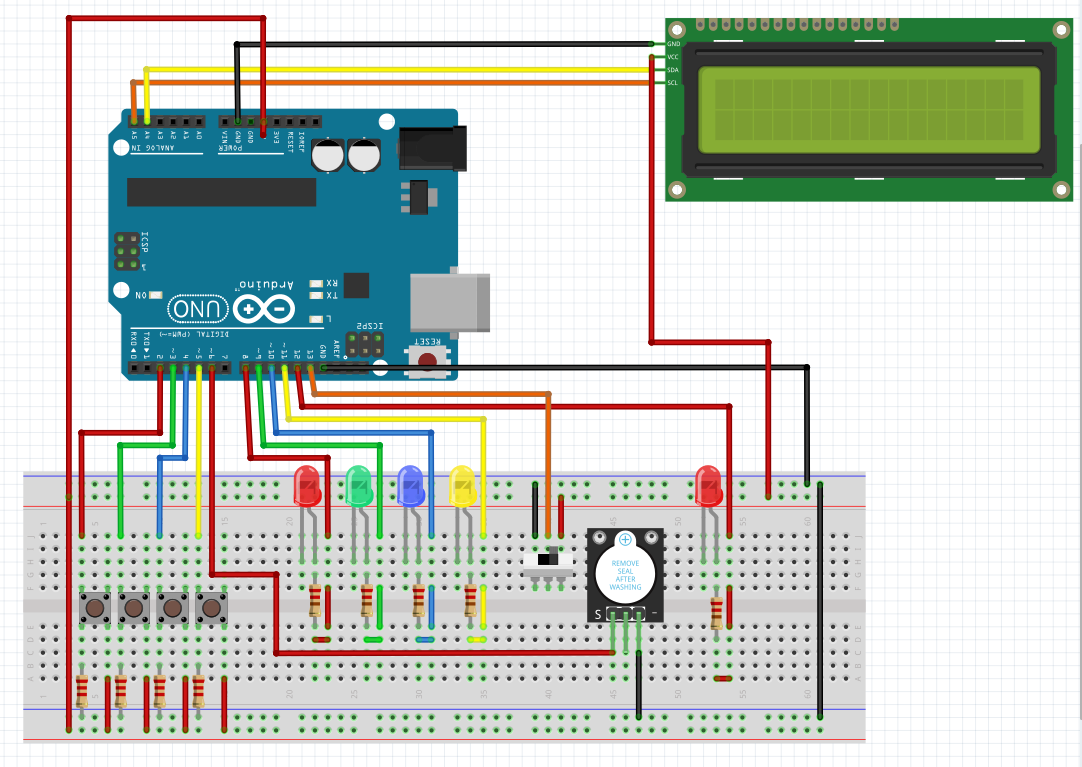
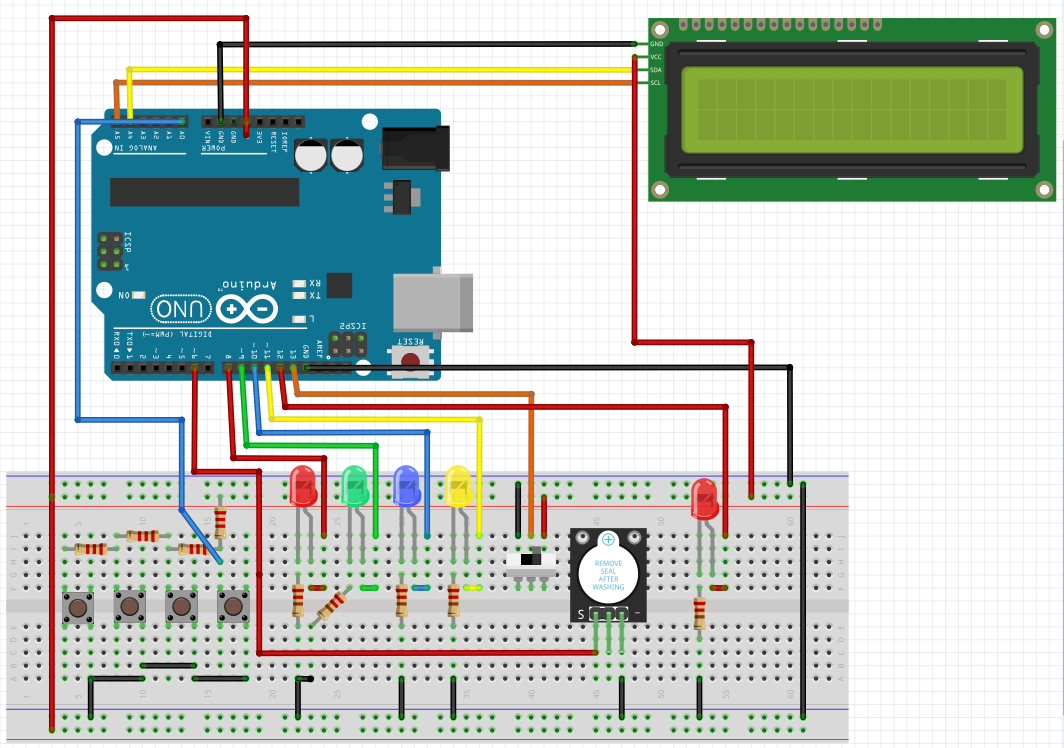
One more step
- made code work;
- added demo songs;
- added switch;
- added buzzed;
- changed sch;

Changed region(s): [[0.0, 0.0, 1.0, 1.0]]

diff --git a/src/main.cpp b/src/main.cpp
@@ -1,4 +1,5 @@
 #include "ACTIONS.h"
+#include "SONGS.h"
 #include <EEPROM.h>
 
 #define buttonRED 2
@@ -8,11 +9,12 @@
 
 #define maintenanceLED 12
 
+#define switchPIN 13
+
 int level = 0;
 int current_index = 0; // current level
 
 bool can_read = false; // disable / enable input
-
 
 void show_Patern(){ // repeats the pattern that was buit until current level
 
@@ -42,7 +44,7 @@ void choose_Next_Number(){
 
     digitalWrite(maintenanceLED, HIGH);
 
-    int next = random(2);
+    int next = random(4);
     level++;
     EEPROM.write(level, next);
 
@@ -69,10 +71,22 @@ void end_Game(){
 }
 
 void check_buttons(){
-    int readingRED = digitalRead(buttonRED);
-    int readingGREEN = digitalRead(buttonGREEN);
-    int readingBLUE =  digitalRead(buttonBLUE);
-    int readingYELLOW = digitalRead(buttonYELLOW);
+    int readingRED = 0, readingGREEN = 0, readingBLUE = 0, readingYELLOW = 0;
+
+    int value = analogRead(A0);
+    if (value < 400) {
+        Serial.println("Button1");
+        readingRED = 1;
+    } else if (value >= 400 && value < 600) {
+        Serial.println("Button2");
+        readingGREEN = 1;
+    } else if (value >= 600 && value < 700) {
+        Serial.println("Button3");
+        readingBLUE = 1;
+    } else if (value >= 700 && value < 1000) {
+        Serial.println("Button4");
+        readingYELLOW = 1;
+    }
 
     if (readingRED == 1){
         soundRED(shortSound);
@@ -141,9 +155,34 @@ void setup() {
     pinMode(ledYELLOW, OUTPUT);
 
     pinMode(maintenanceLED, OUTPUT);
+
+    choose_Next_Number();
 }
 
 void loop() {
-    if (can_read)
-        check_buttons();
+    int switchValue = digitalRead(switchPIN);
+
+    if (switchValue == 1){
+        if (can_read)
+            check_buttons();
+    } else {
+        int readingRED = 0, readingGREEN = 0, readingBLUE = 0, readingYELLOW = 0;
+
+        int value = analogRead(A0);
+    if (value < 400) {
+        Serial.println("Button1");
+        readingRED = 1;
+    } else if (value >= 400 && value < 600) {
+        Serial.println("Button2");
+        readingGREEN = 1;
+    } else if (value >= 600 && value < 700) {
+        Serial.println("Button3");
+        readingBLUE = 1;
+    } else if (value >= 700 && value < 1000) {
+        Serial.println("Button4");
+        readingYELLOW = 1;
+    }
+
+        if (readingRED == 1) song1();
+    }
 }

diff --git a/src/ACTIONS.cpp b/src/ACTIONS.cpp
@@ -4,63 +4,88 @@ void soundRED(lengthSound type){
     
     if (type == shortSound) {
         digitalWrite(ledRED, HIGH);
+        tone(buzzer, 44); // note C in Hz 261
+
         delay(150);
+
+        noTone(buzzer);
 
         digitalWrite(ledRED, LOW);
     } else {
         digitalWrite(ledRED, HIGH);
+        tone(buzzer, 44); // note C in Hz 261
+
         delay(500);
+
+        noTone(buzzer);
             
         digitalWrite(ledRED, LOW);
     }
-
-    tone(buzzer, 261); // note C in Hz
 }
 
 void soundGREEN(lengthSound type){
     if (type == shortSound) {
         digitalWrite(ledGREEN, HIGH);
+        tone(buzzer, 330); // note D in Hz  
+
         delay(150);
+
+        noTone(buzzer);
 
         digitalWrite(ledGREEN, LOW);
     } else {
         digitalWrite(ledGREEN, HIGH);
+        tone(buzzer, 330); // note D in Hz  
+
         delay(500);
+
+        noTone(buzzer);
             
         digitalWrite(ledGREEN, LOW);
-    }
-
-    tone(buzzer, 293); // note D in Hz    
+    }  
 }
 
 void soundBLUE(lengthSound type){
     if (type == shortSound) {
         digitalWrite(ledBLUE, HIGH);
+        tone(buzzer, 784); // note E in Hz  
+
         delay(150);
+
+        noTone(buzzer);
 
         digitalWrite(ledBLUE, LOW);
     } else {
         digitalWrite(ledBLUE, HIGH);
+        tone(buzzer, 784); // note E in Hz  
+
         delay(500);
+
+        noTone(buzzer);
             
         digitalWrite(ledBLUE, LOW);
     }
-
-    tone(buzzer, 329); // note E in Hz  
 }
 
 void soundYELLOW(lengthSound type){
     if (type == shortSound) {
         digitalWrite(ledYELLOW, HIGH);
+        tone(buzzer, 1397); // note F in Hz
+
         delay(150);
+
+        noTone(buzzer);
 
         digitalWrite(ledYELLOW, LOW);
     } else {
         digitalWrite(ledYELLOW, HIGH);
+        tone(buzzer, 1397); // note F in Hz
+
         delay(500);
+
+        noTone(buzzer);
             
         digitalWrite(ledYELLOW, LOW);
     }
 
-    tone(buzzer, 349); // note F in Hz
 }

diff --git a/src/SONGS.cpp b/src/SONGS.cpp
@@ -1,17 +1,46 @@
 #include "SONGS.h"
+#include "ACTIONS.h"
 
 void song1(){
-
+    soundRED(shortSound);
+    soundGREEN(shortSound);
+    soundBLUE(shortSound);
+    soundYELLOW(shortSound);
+    soundRED(longSound);
+    soundGREEN(longSound);
+    soundBLUE(longSound);
+    soundYELLOW(longSound);
 }
 
 void song2(){
-
+    soundRED(shortSound);
+    soundGREEN(shortSound);
+    soundBLUE(shortSound);
+    soundYELLOW(shortSound);
+    soundRED(longSound);
+    soundGREEN(longSound);
+    soundBLUE(longSound);
+    soundYELLOW(longSound);
 }
 
 void song3(){
-
+    soundRED(shortSound);
+    soundGREEN(shortSound);
+    soundBLUE(shortSound);
+    soundYELLOW(shortSound);
+    soundRED(longSound);
+    soundGREEN(longSound);
+    soundBLUE(longSound);
+    soundYELLOW(longSound);
 }
 
 void song4(){
-    
+    soundRED(shortSound);
+    soundGREEN(shortSound);
+    soundBLUE(shortSound);
+    soundYELLOW(shortSound);
+    soundRED(longSound);
+    soundGREEN(longSound);
+    soundBLUE(longSound);
+    soundYELLOW(longSound);  
 }
